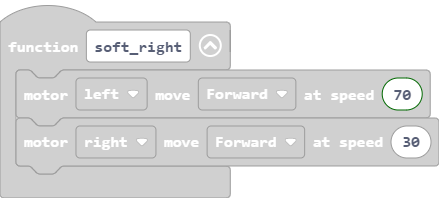
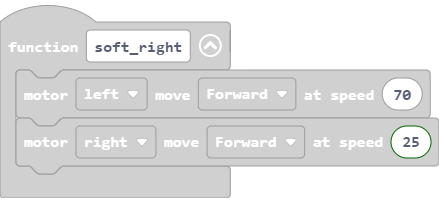
Update main.blocks, main.ts

diff --git a/main.ts b/main.ts
@@ -15,7 +15,7 @@ function hard_right () {
 }
 function soft_right () {
     maqueen.motorRun(maqueen.Motors.M1, maqueen.Dir.CW, 70)
-    maqueen.motorRun(maqueen.Motors.M2, maqueen.Dir.CW, 30)
+    maqueen.motorRun(maqueen.Motors.M2, maqueen.Dir.CW, 25)
 }
 function avoidance_function () {
     Avoiding = 1
